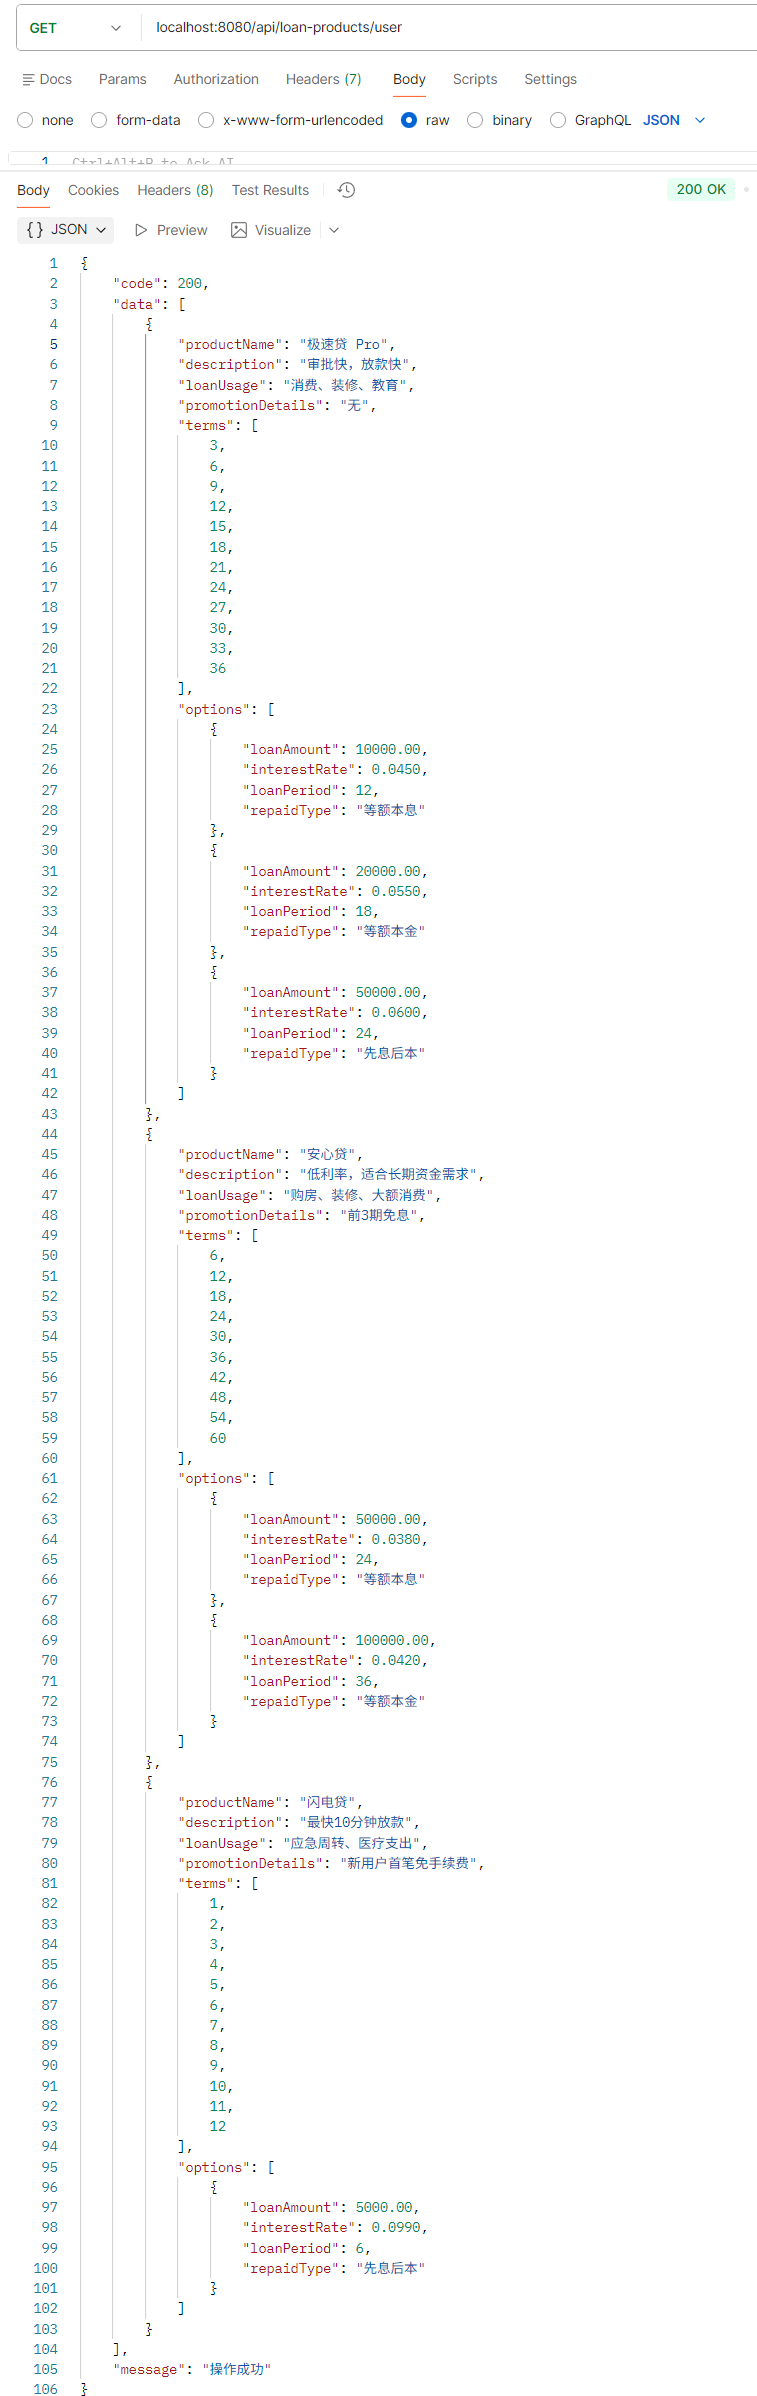
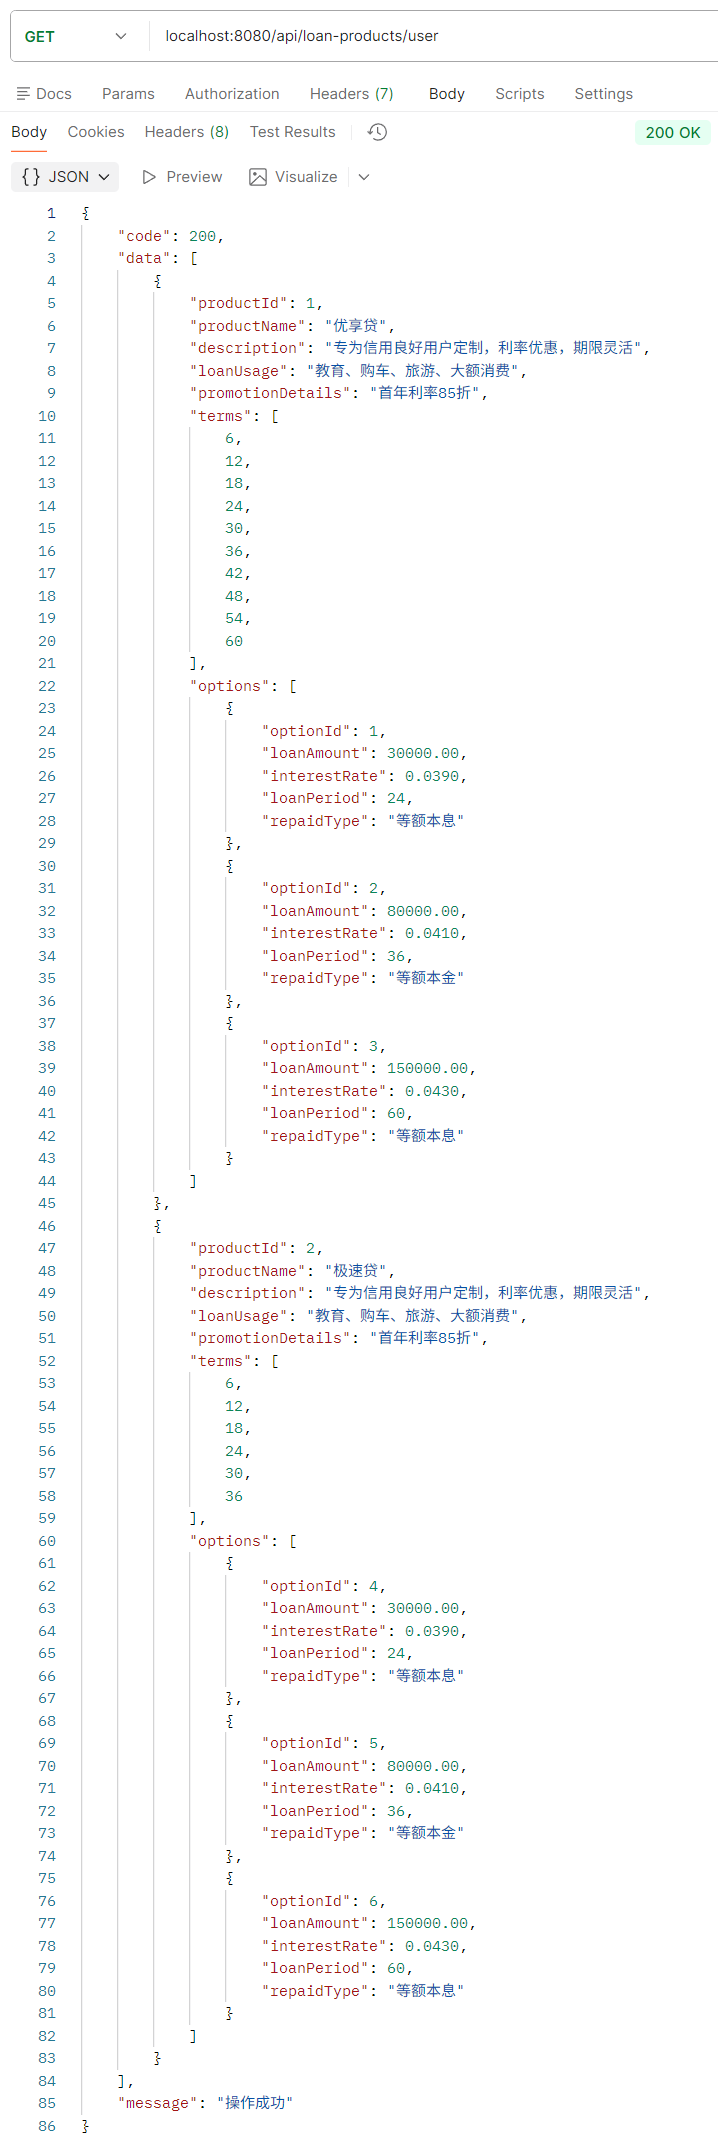
更改产品接口文档，用户查询的返回体

diff --git a/project/backend/personal-loan/src/main/java/com/example/personal_loan/service/impl/LoanProductServiceImpl.java b/project/backend/personal-loan/src/main/java/com/example/personal_loan/service/impl/LoanProductServiceImpl.java
@@ -240,6 +240,7 @@ public class LoanProductServiceImpl implements LoanProductService{
             List<LoanOptionResponse> optionResponses = options.stream()
                 .map(opt -> {
                     LoanOptionResponse resp = new LoanOptionResponse();
+                    resp.setOptionId(opt.getId());
                     resp.setLoanAmount(opt.getLoanAmount());
                     resp.setInterestRate(opt.getInterestRate());
                     resp.setLoanPeriod(opt.getLoanPeriod());
@@ -250,6 +251,7 @@ public class LoanProductServiceImpl implements LoanProductService{
 
             // 构建响应对象
             UserGetProductResponse response = new UserGetProductResponse();
+            response.setProductId(product.getId());
             response.setProductName(product.getProductName());
             response.setDescription(product.getDescription());
             response.setLoanUsage(product.getLoanUsage());
@@ -266,10 +268,6 @@ public class LoanProductServiceImpl implements LoanProductService{
         List<LoanProduct> products = loanProductMapper.findAll();
         return products.stream().map(product -> {
             // 生成 terms 列表
-            System.out.println("Product ID: " + product.getId() +
-            ", minTerm=" + product.getMinTerm() +
-            ", maxTerm=" + product.getMaxTerm() +
-            ", termStep=" + product.getTermStep());
             List<Integer> terms = new ArrayList<>();
             if (product.getMinTerm() != null && product.getMaxTerm() != null && product.getTermStep() != null) {
                 for (int t = product.getMinTerm(); t <= product.getMaxTerm(); t += product.getTermStep()) {

diff --git a/project/backend/personal-loan/src/main/java/com/example/personal_loan/mapper/LoanProductMapper.java b/project/backend/personal-loan/src/main/java/com/example/personal_loan/mapper/LoanProductMapper.java
@@ -70,5 +70,10 @@ public interface LoanProductMapper {
     List<LoanProduct> findAll();
 
     // 用productName搜索查询
+    @Select("SELECT id, product_name as productName, description, loan_usage as loanUsage, "+
+        "min_term as minTerm, max_term as maxTerm, term_step as termStep, " +
+        "promotion_details as promotionDetails, create_time as createTime, update_time as updateTime " +
+        "FROM loan_products " +
+        "WHERE product_name LIKE CONCAT('%', #{keyword}, '%')")
     List<LoanProduct> findByProductNameLike(String productName);
 }

diff --git a/project/backend/document/接口文档/loanProduct.md b/project/backend/document/接口文档/loanProduct.md
@@ -21,52 +21,11 @@
     "code": 200,
     "data": [
         {
-            "id":"",
-            "productName": "极速贷 Pro",
-            "description": "审批快，放款快",
-            "loanUsage": "消费、装修、教育",
-            "promotionDetails": "无",
-            "terms": [
-                3,
-                6,
-                9,
-                12,
-                15,
-                18,
-                21,
-                24,
-                27,
-                30,
-                33,
-                36
-            ],
-            "options": [
-                {
-                    "id":"",
-                    "loanAmount": 10000.00,
-                    "interestRate": 0.0450,
-                    "loanPeriod": 12,
-                    "repaidType": "等额本息"
-                },
-                {
-                    "loanAmount": 20000.00,
-                    "interestRate": 0.0550,
-                    "loanPeriod": 18,
-                    "repaidType": "等额本金"
-                },
-                {
-                    "loanAmount": 50000.00,
-                    "interestRate": 0.0600,
-                    "loanPeriod": 24,
-                    "repaidType": "先息后本"
-                }
-            ]
-        },
-        {
-            "productName": "安心贷",
-            "description": "低利率，适合长期资金需求",
-            "loanUsage": "购房、装修、大额消费",
-            "promotionDetails": "前3期免息",
+            "productId": 1,
+            "productName": "优享贷",
+            "description": "专为信用良好用户定制，利率优惠，期限灵活",
+            "loanUsage": "教育、购车、旅游、大额消费",
+            "promotionDetails": "首年利率85折",
             "terms": [
                 6,
                 12,
@@ -81,44 +40,63 @@
             ],
             "options": [
                 {
-                    "loanAmount": 50000.00,
-                    "interestRate": 0.0380,
+                    "optionId": 1,
+                    "loanAmount": 30000.00,
+                    "interestRate": 0.0390,
                     "loanPeriod": 24,
                     "repaidType": "等额本息"
                 },
                 {
-                    "loanAmount": 100000.00,
-                    "interestRate": 0.0420,
+                    "optionId": 2,
+                    "loanAmount": 80000.00,
+                    "interestRate": 0.0410,
                     "loanPeriod": 36,
                     "repaidType": "等额本金"
+                },
+                {
+                    "optionId": 3,
+                    "loanAmount": 150000.00,
+                    "interestRate": 0.0430,
+                    "loanPeriod": 60,
+                    "repaidType": "等额本息"
                 }
             ]
         },
         {
-            "productName": "闪电贷",
-            "description": "最快10分钟放款",
-            "loanUsage": "应急周转、医疗支出",
-            "promotionDetails": "新用户首笔免手续费",
+            "productId": 2,
+            "productName": "极速贷",
+            "description": "专为信用良好用户定制，利率优惠，期限灵活",
+            "loanUsage": "教育、购车、旅游、大额消费",
+            "promotionDetails": "首年利率85折",
             "terms": [
-                1,
-                2,
-                3,
-                4,
-                5,
                 6,
-                7,
-                8,
-                9,
-                10,
-                11,
-                12
+                12,
+                18,
+                24,
+                30,
+                36
             ],
             "options": [
                 {
-                    "loanAmount": 5000.00,
-                    "interestRate": 0.0990,
-                    "loanPeriod": 6,
-                    "repaidType": "先息后本"
+                    "optionId": 4,
+                    "loanAmount": 30000.00,
+                    "interestRate": 0.0390,
+                    "loanPeriod": 24,
+                    "repaidType": "等额本息"
+                },
+                {
+                    "optionId": 5,
+                    "loanAmount": 80000.00,
+                    "interestRate": 0.0410,
+                    "loanPeriod": 36,
+                    "repaidType": "等额本金"
+                },
+                {
+                    "optionId": 6,
+                    "loanAmount": 150000.00,
+                    "interestRate": 0.0430,
+                    "loanPeriod": 60,
+                    "repaidType": "等额本息"
                 }
             ]
         }
@@ -145,9 +123,9 @@
 
 |字段名|类型|是否必填|说明|示例值|
 |---|---|---|---|---|
-|name|string|是|贷款产品名称|闪电贷|
+|name|string|是|贷款产品名称|优享贷|
 
-**请求示例（网址）** /api/loan-products/user/search?name=闪电贷
+**请求示例（网址）** /api/loan-products/user/search?name=优享贷
 
 **返回数据**：
 
@@ -156,30 +134,44 @@
     "code": 200,
     "data": [
         {
-            "productName": "闪电贷",
-            "description": "最快10分钟放款",
-            "loanUsage": "应急周转、医疗支出",
-            "promotionDetails": "新用户首笔免手续费",
+            "productId": 1,
+            "productName": "优享贷",
+            "description": "专为信用良好用户定制，利率优惠，期限灵活",
+            "loanUsage": "教育、购车、旅游、大额消费",
+            "promotionDetails": "首年利率85折",
             "terms": [
-                1,
-                2,
-                3,
-                4,
-                5,
                 6,
-                7,
-                8,
-                9,
-                10,
-                11,
-                12
+                12,
+                18,
+                24,
+                30,
+                36,
+                42,
+                48,
+                54,
+                60
             ],
             "options": [
                 {
-                    "loanAmount": 5000.00,
-                    "interestRate": 0.0990,
-                    "loanPeriod": 6,
-                    "repaidType": "先息后本"
+                    "optionId": 1,
+                    "loanAmount": 30000.00,
+                    "interestRate": 0.0390,
+                    "loanPeriod": 24,
+                    "repaidType": "等额本息"
+                },
+                {
+                    "optionId": 2,
+                    "loanAmount": 80000.00,
+                    "interestRate": 0.0410,
+                    "loanPeriod": 36,
+                    "repaidType": "等额本金"
+                },
+                {
+                    "optionId": 3,
+                    "loanAmount": 150000.00,
+                    "interestRate": 0.0430,
+                    "loanPeriod": 60,
+                    "repaidType": "等额本息"
                 }
             ]
         }
